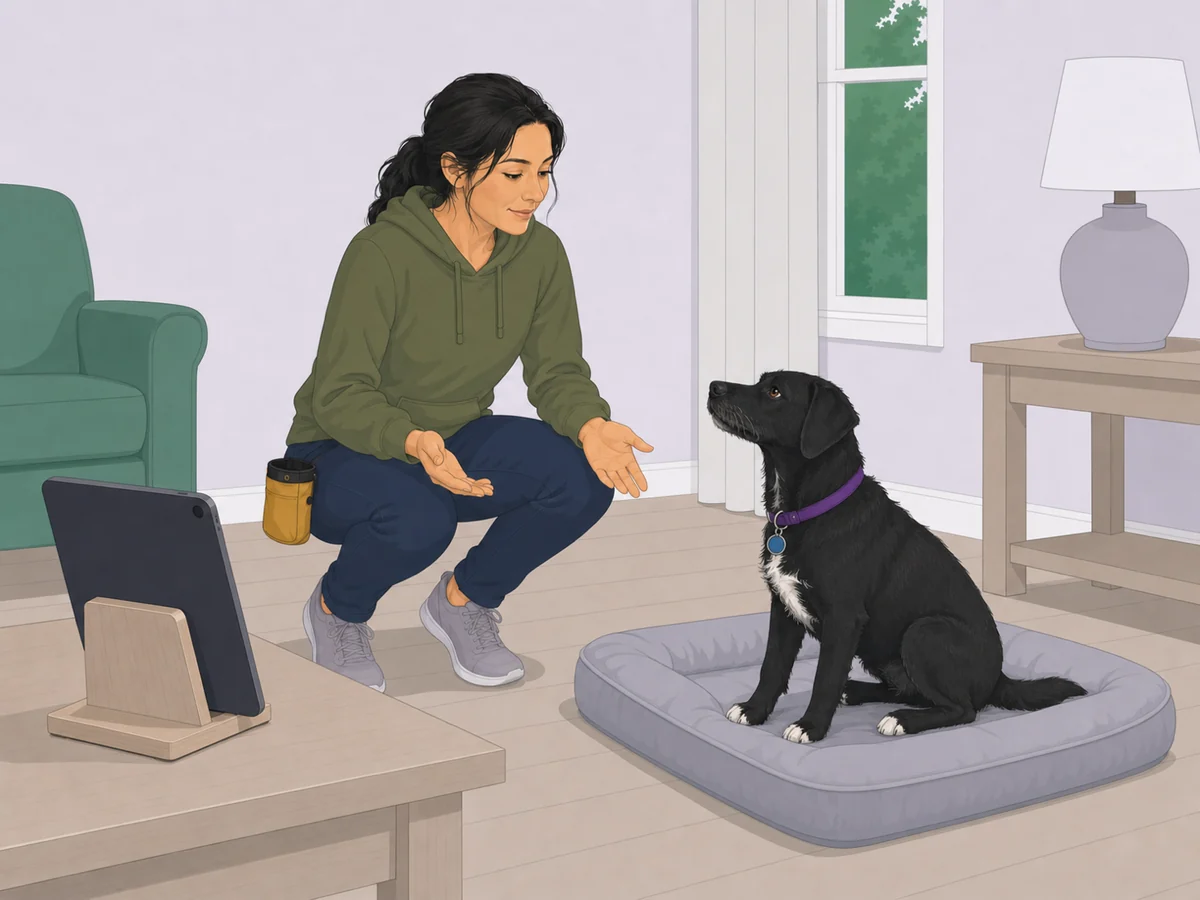
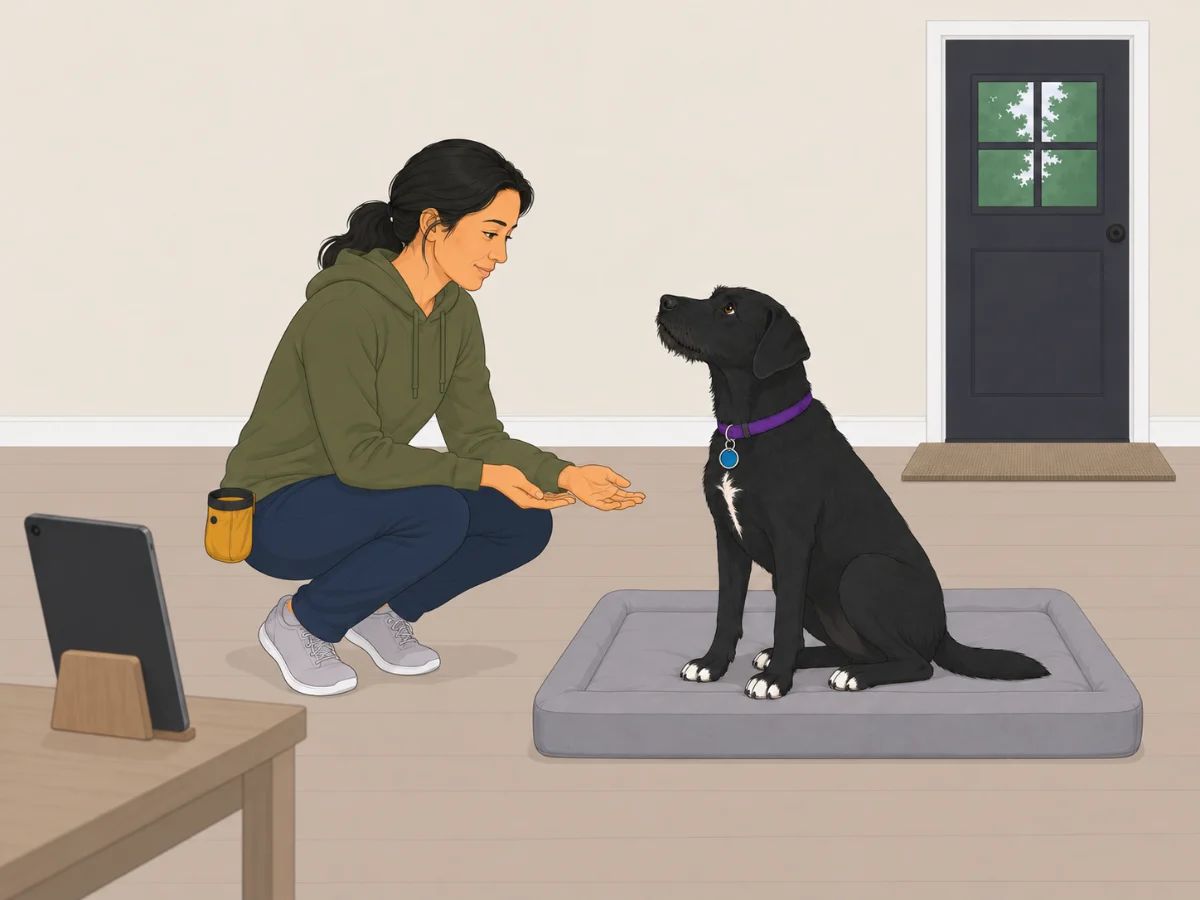
Lucy Learns's two posture drawings are redrawn in the app's own art: the plaster-walled entry hall instead of the lavender room, and the handler and Lucy copied from the shipping set, with the phone-in-one-hand handler now looking at the dog rather than at the phone, as its alt text always said
Drawn in ChatGPT against four references from lucy-learns art/pilot/approved
(cool-flat-v2): door-sound-05-settle as the style exemplar, door-greet-01-settle
for the room and bed, and two likeness sheets cropped from v2 masters rather
than the painted trainer-reference.jpg and lucy-reference.jpg. Both first
takes, 1448x1086, cut to 1200x900 WebP at 0.86. Alt text unchanged; both
still describe the pictures. resting.mjs and states.mjs --strict on the page
pass at the base's counts (165; 74 across 85 state rules).

diff --git a/case-study/lucy-learns.html b/case-study/lucy-learns.html
@@ -550,14 +550,14 @@
           <div class="build-modes-row">
             <div class="build-mode">
               <div class="build-mode-shot">
-                <img src="../img/lucy/mode-hands-full.webp?v=5" width="1200" height="900" loading="lazy" decoding="async" alt="A woman in a hallway, phone in one hand, leash in the other, looks down at a black dog with a white chest. A treat pouch hangs at her hip." />
+                <img src="../img/lucy/mode-hands-full.webp?v=6" width="1200" height="900" loading="lazy" decoding="async" alt="A woman in a hallway, phone in one hand, leash in the other, looks down at a black dog with a white chest. A treat pouch hangs at her hip." />
               </div>
               <h4>In one hand</h4>
               <p>Phone in whichever hand the leash leaves free. The app reads each step aloud and the timer turns them, so the one tap left is how the rep went.</p>
             </div>
             <div class="build-mode">
               <div class="build-mode-shot">
-                <img src="../img/lucy/mode-hands-free.webp?v=5" width="1200" height="900" loading="lazy" decoding="async" alt="A tablet upright on a wooden stand on a coffee table. Beyond it a woman crouches, both hands open and empty, facing a black dog on a gray floor bed." />
+                <img src="../img/lucy/mode-hands-free.webp?v=6" width="1200" height="900" loading="lazy" decoding="async" alt="A tablet upright on a wooden stand on a coffee table. Beyond it a woman crouches, both hands open and empty, facing a black dog on a gray floor bed." />
               </div>
               <h4>On a stand</h4>
               <p>The phone or an iPad, propped up where you practice. The instruction reads from a step away, and both hands stay with the dog until the rep question needs a thumb.</p>
